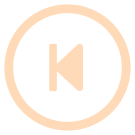
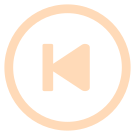
OSD back/next: square glyph; like/dislike: drop the cuff dot (#761)
Part of #761

Changed region(s): [[0.2963, 0.3259, 0.4741, 0.6815], [0.5037, 0.3259, 0.6815, 0.6815], [0.5037, 0.5926, 0.5333, 0.6222]]

diff --git a/client_generic/osd-icons/make_osd_icons.py b/client_generic/osd-icons/make_osd_icons.py
@@ -81,8 +81,8 @@ def icons():
     return {
         "osd-play": (ringed("FaPlay", 38, dx=3), big, big),
         "osd-pause": (ringed("FaPause", 38), big, big),
-        "osd-back": (ringed("FaStepBackward", 40, dx=-1), big, big),
-        "osd-next": (ringed("FaStepForward", 40, dx=1), big, big),
+        "osd-back": (ringed("FaStepBackward", 35, dx=-1), big, big),
+        "osd-next": (ringed("FaStepForward", 35, dx=1), big, big),
         "osd-like": (ringed("FaThumbsUp", 42), big, big),
         "osd-dislike": (ringed("FaThumbsDown", 42), big, big),
         "osd-repeat": (ringed("LuRepeat", 46), big, big),

diff --git a/client_generic/osd-icons/README.md b/client_generic/osd-icons/README.md
@@ -32,7 +32,7 @@ frontend's `react-icons` package (v5.5.0) and its `src/icons/` folder.
 
 | Prefix | Set | License |
 | --- | --- | --- |
-| `Fa*` | Font Awesome Free 5 | CC BY 4.0 (icons) |
+| `Fa*` | Font Awesome Free 5 (step back/forward stretched square; thumbs without the cuff dot) | CC BY 4.0 (icons) |
 | `Lu*` | Lucide | ISC |
 | `Replay10`, `Forward10` | Google Material Icons `replay_10` / `forward_10`, redrawn with a thinner stroked ring, smaller arrowhead and larger digits | Apache 2.0 |
 | `FlyingBird` | frontend `src/icons/flying-bird.tsx` | ours |
